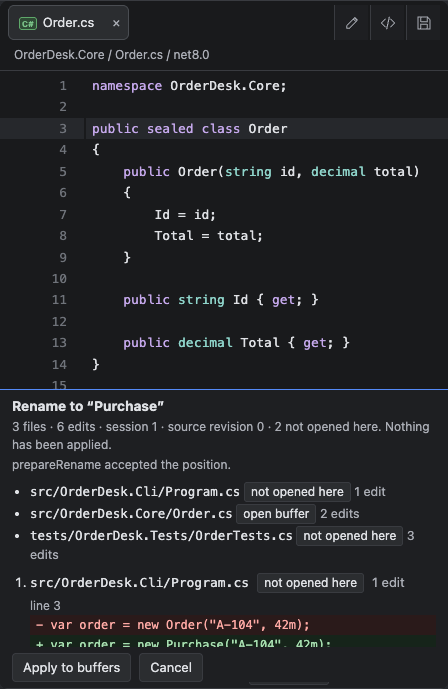
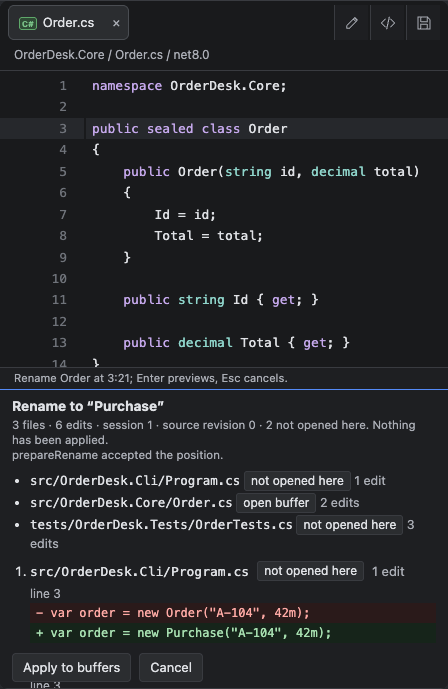
fix(editor): keep safety text and status visible, popup after editor in DOM (ticket 34)

diff --git a/src/WorkspaceView.tsx b/src/WorkspaceView.tsx
@@ -3942,6 +3942,92 @@ export function WorkspaceView({ snapshot, initialFile, recentSolutions, onOpenRe
                 </span>
               </div>
 
+              {active.conflict && (
+                <div className="notice error" data-testid="conflict-banner" role="alert">
+                  <strong>File changed on disk.</strong> {active.path} was modified outside
+                  OpenRidr. Your buffer is preserved; nothing was overwritten.
+                  <div className="actions">
+                    <button data-testid="conflict-reload" onClick={reloadFromDisk}>
+                      Reload from disk (discard my edits)
+                    </button>
+                    <button data-testid="conflict-overwrite" onClick={() => void overwriteDisk()}>
+                      Overwrite disk
+                    </button>
+                  </div>
+                  <details className="conflict-compare" data-testid="conflict-compare">
+                    <summary>Compare buffer and disk</summary>
+                    <div className="conflict-compare-grid">
+                      <section aria-label="Buffer version">
+                        <h3>Buffer · unsaved · revision {active.revision}</h3>
+                        <p className="muted">
+                          Based on <code data-testid="conflict-buffer-hash">{active.hash}</code>
+                        </p>
+                        <pre data-testid="conflict-compare-buffer">{active.content}</pre>
+                      </section>
+                      <section aria-label="Disk version">
+                        <h3>Disk · external change</h3>
+                        <p className="muted">
+                          Disk hash{" "}
+                          <code data-testid="conflict-disk-hash">{active.conflict.hash}</code>
+                        </p>
+                        <pre data-testid="conflict-compare-disk">{active.conflict.content}</pre>
+                      </section>
+                    </div>
+                    <p className="muted" data-testid="conflict-compare-diff">
+                      {activeConflictDiff
+                        ? `${countLabel(activeConflictDiff.removed, "line")} removed · ${countLabel(activeConflictDiff.added, "line")} added`
+                        : "Line diff skipped: one version has more than 1200 lines; compare hashes only."}
+                    </p>
+                  </details>
+                </div>
+              )}
+
+              <div className="editor-body" id="editor-content" role="tabpanel" aria-label={baseName(active.path)}>
+                <CodeEditor
+                  key={active.path}
+                  value={active.content}
+                  path={active.path}
+                  platform={snapshot.app.platform}
+                  revision={active.revision}
+                  editor={settings.editor}
+                  onChange={(value) => updateContent(active.path, value)}
+                  onSave={() => void save()}
+                  onDefinition={(location) =>
+                    void navigateTo(location.path, {
+                      line: location.line,
+                      character: location.character,
+                    })
+                  }
+                  onRename={(position) => requestRename(position)}
+                  onRenameSubmit={submitRenameInline}
+                  onRenameCancel={cancelRenameRequest}
+                  onCodeActions={(position) => void requestCodeActions(position)}
+                  onContextMenu={(position, at) => {
+                    noteCursor(position);
+                    setContextMenu({
+                      x: at.x,
+                      y: at.y,
+                      line: position.line,
+                      character: position.character,
+                    });
+                    if (trusted) void refreshGit();
+                  }}
+                  onGutterAction={handleGutterAction}
+                  gutterActions={gutterActions}
+                  changedLines={changedLines}
+                  renameRequest={renameRequest}
+                  definitionRequest={definitionRequest}
+                  onCursor={noteCursor}
+                  breakpoints={activeBreakpoints}
+                  currentLine={debugCurrentLine}
+                  inlayText={debugInlay}
+                  onToggleBreakpoint={(line) => void toggleBreakpoint(line)}
+                  target={
+                    editorTarget?.path === active.path ? editorTarget : null
+                  }
+                />
+              </div>
+
               {findUsages && (
                 <FindUsagesPanel
                   className="rename-preview find-usages editor-popup"
@@ -4172,92 +4258,6 @@ export function WorkspaceView({ snapshot, initialFile, recentSolutions, onOpenRe
                   </div>
                 </section>
               )}
-
-              {active.conflict && (
-                <div className="notice error" data-testid="conflict-banner" role="alert">
-                  <strong>File changed on disk.</strong> {active.path} was modified outside
-                  OpenRidr. Your buffer is preserved; nothing was overwritten.
-                  <div className="actions">
-                    <button data-testid="conflict-reload" onClick={reloadFromDisk}>
-                      Reload from disk (discard my edits)
-                    </button>
-                    <button data-testid="conflict-overwrite" onClick={() => void overwriteDisk()}>
-                      Overwrite disk
-                    </button>
-                  </div>
-                  <details className="conflict-compare" data-testid="conflict-compare">
-                    <summary>Compare buffer and disk</summary>
-                    <div className="conflict-compare-grid">
-                      <section aria-label="Buffer version">
-                        <h3>Buffer · unsaved · revision {active.revision}</h3>
-                        <p className="muted">
-                          Based on <code data-testid="conflict-buffer-hash">{active.hash}</code>
-                        </p>
-                        <pre data-testid="conflict-compare-buffer">{active.content}</pre>
-                      </section>
-                      <section aria-label="Disk version">
-                        <h3>Disk · external change</h3>
-                        <p className="muted">
-                          Disk hash{" "}
-                          <code data-testid="conflict-disk-hash">{active.conflict.hash}</code>
-                        </p>
-                        <pre data-testid="conflict-compare-disk">{active.conflict.content}</pre>
-                      </section>
-                    </div>
-                    <p className="muted" data-testid="conflict-compare-diff">
-                      {activeConflictDiff
-                        ? `${countLabel(activeConflictDiff.removed, "line")} removed · ${countLabel(activeConflictDiff.added, "line")} added`
-                        : "Line diff skipped: one version has more than 1200 lines; compare hashes only."}
-                    </p>
-                  </details>
-                </div>
-              )}
-
-              <div className="editor-body" id="editor-content" role="tabpanel" aria-label={baseName(active.path)}>
-                <CodeEditor
-                  key={active.path}
-                  value={active.content}
-                  path={active.path}
-                  platform={snapshot.app.platform}
-                  revision={active.revision}
-                  editor={settings.editor}
-                  onChange={(value) => updateContent(active.path, value)}
-                  onSave={() => void save()}
-                  onDefinition={(location) =>
-                    void navigateTo(location.path, {
-                      line: location.line,
-                      character: location.character,
-                    })
-                  }
-                  onRename={(position) => requestRename(position)}
-                  onRenameSubmit={submitRenameInline}
-                  onRenameCancel={cancelRenameRequest}
-                  onCodeActions={(position) => void requestCodeActions(position)}
-                  onContextMenu={(position, at) => {
-                    noteCursor(position);
-                    setContextMenu({
-                      x: at.x,
-                      y: at.y,
-                      line: position.line,
-                      character: position.character,
-                    });
-                    if (trusted) void refreshGit();
-                  }}
-                  onGutterAction={handleGutterAction}
-                  gutterActions={gutterActions}
-                  changedLines={changedLines}
-                  renameRequest={renameRequest}
-                  definitionRequest={definitionRequest}
-                  onCursor={noteCursor}
-                  breakpoints={activeBreakpoints}
-                  currentLine={debugCurrentLine}
-                  inlayText={debugInlay}
-                  onToggleBreakpoint={(line) => void toggleBreakpoint(line)}
-                  target={
-                    editorTarget?.path === active.path ? editorTarget : null
-                  }
-                />
-              </div>
             </>
           ) : (
             <div className="empty-editor">

diff --git a/tests/e2e/csharp-ls.spec.ts b/tests/e2e/csharp-ls.spec.ts
@@ -1234,6 +1234,9 @@ test("rename previews real cross-project edits, cancels inert and applies to buf
     await page.setViewportSize({ width: 1100, height: 700 });
     // Apply/Cancel stay inside the docked panel and the editor keeps usable height.
     await page.getByTestId("bottom-tab-problems").click();
+    await expect(page.getByTestId("rename-preview-summary")).toBeVisible();
+    await expect(page.getByTestId("rename-preview-summary")).toContainText("Nothing has been applied");
+    await expect(page.getByTestId("editor-lsp-status")).toBeVisible();
     const narrowPreview = (await page.getByTestId("rename-preview").boundingBox())!;
     const dock = (await page.getByTestId("bottom-tab-problems").boundingBox())!;
     expect(narrowPreview.y + narrowPreview.height).toBeLessThanOrEqual(dock.y + 0.5);
@@ -1517,6 +1520,17 @@ test("code actions are listed from csharp-ls and preview/apply without writing d
     // The first action and Close are visible inside the docked panel; the editor keeps height.
     // Ticket 32: with the Problems tool window open the bottom dock yields, so two actions fit.
     await page.getByTestId("bottom-tab-problems").click();
+    // Ticket 34: safety text and the role=status line stay visible; the popup follows the editor in DOM/Tab order.
+    await expect(panel.getByTestId("code-actions-summary")).toBeVisible();
+    await expect(panel.getByTestId("code-actions-summary")).toContainText("Nothing has been applied");
+    await expect(page.getByTestId("editor-lsp-status")).toBeVisible();
+    expect(
+      await page.evaluate(() => {
+        const body = document.querySelector(".editor-body")!;
+        const popup = document.querySelector(".editor-popup")!;
+        return Boolean(body.compareDocumentPosition(popup) & Node.DOCUMENT_POSITION_FOLLOWING);
+      }),
+    ).toBe(true);
     const narrowPanel = (await panel.boundingBox())!;
     for (const locator of [
       panel.getByTestId("code-actions-list").getByRole("button").nth(0),

diff --git a/src/styles.css b/src/styles.css
@@ -1184,9 +1184,8 @@ kbd { font: 11px var(--sans); color: var(--muted); }
   font-size: 0.95rem;
 }
 
-/* M7: previews dock below the editor (flex order) instead of floating over the text. */
+/* M7: previews dock below the editor. They follow .editor-body in the DOM, so Tab order matches the visual order. */
 .editor-popup {
-  order: 2;
   flex: 0 0 auto;
   box-sizing: border-box;
   min-height: 100px;
@@ -1196,17 +1195,17 @@ kbd { font: 11px var(--sans); color: var(--muted); }
   border-top: 1px solid var(--accent);
 }
 
+/* Compact, never hidden: safety/truncation text stays; only spacing and size give way. */
 .editor-popup h2 { margin: 0 0 2px; font-size: 0.85rem; }
-.editor-popup p { margin: 2px 0; font-size: 0.75rem; }
+.editor-popup p { margin: 1px 0; font-size: 0.72rem; line-height: 1.25; }
 
-/* Short windows: the summary repeats the status notice above, so the list and Apply/Cancel get the room. */
-@media (max-height: 760px) {
-  .editor-popup > p.muted { display: none; }
-}
-
-/* The keyboard-hint line is redundant while a preview is docked; its height goes to the editor. */
-.editor-popup ~ .editor-body .editor-lsp-status {
-  display: none;
+/* While a preview is docked, the role=status line shrinks to one line (full text in its title). */
+.editor-pane:has(.editor-popup) .editor-lsp-status {
+  padding: 2px 14px;
+  font-size: 0.7rem;
+  white-space: nowrap;
+  overflow: hidden;
+  text-overflow: ellipsis;
 }
 
 /* Apply and Cancel stay inside the preview box at every size; -10px pushed them past its bottom edge. */

diff --git a/tests/e2e/editor-overflow.spec.ts b/tests/e2e/editor-overflow.spec.ts
@@ -44,11 +44,11 @@ test("editor action popups stay inside the editor and keep preview actions reach
   await page.setViewportSize({ width: 1100, height: 700 });
   await page.setContent(`
     <section class="editor-pane" aria-label="Editor" style="width:700px;height:500px">
+      <div class="editor-body" style="min-height:100px">Editor</div>
       <div class="rename-preview editor-popup">
         <h2>Rename preview</h2><div style="height:700px">Preview details</div>
         <div class="actions"><button>Apply</button><button>Cancel</button></div>
       </div>
-      <div class="editor-body" style="min-height:100px">Editor</div>
     </section>`);
   await page.addStyleTag({ content: fs.readFileSync(path.resolve("src/styles.css"), "utf8") });
   const pane = page.getByRole("region", { name: "Editor" });

diff --git a/src/CodeEditor.tsx b/src/CodeEditor.tsx
@@ -957,6 +957,7 @@ export function CodeEditor({
         data-testid="editor-lsp-status"
         data-state={status.state}
         role="status"
+        title={status.text}
       >
         {status.text}
       </div>

diff --git a/crates/host/src/lib.rs b/crates/host/src/lib.rs
@@ -6486,6 +6486,8 @@ fn workspace_symbol_items(list: &lsp::WorkspaceSymbolList, root: &Path) -> (Vec<
 
 #[cfg(test)]
 mod tests {
+    use super::*;
+
     #[test]
     fn symbols_outside_the_workspace_are_filtered_not_truncated() {
         let temp = tempfile::tempdir().unwrap();
@@ -6514,7 +6516,6 @@ mod tests {
         assert!(workspace_symbol_items(&capped, &root).1, "real truncation is kept");
     }
 
-    use super::*;
 
     fn target(path: &Path) -> lsp::DefinitionTarget {
         lsp::DefinitionTarget {

diff --git a/docs/UI-AUDIT.md b/docs/UI-AUDIT.md
@@ -45,7 +45,7 @@ Os cinco mais graves, na ordem em que atrapalham o trabalho diário:
 | M4 | Settings > Keymap | A lista não é uma tabela: cada ação vira uma pilha de título + grupo + dois botões grandes (`Change`/`Reset`), com rótulos duplicados (`Run Run`, `Build Build`, `Debug Debug`), um `Reset` global sem rótulo no topo e sem cabeçalhos de coluna. | F2 #16/#17 (remapear e avisar conflito) e F8 #65; decisão F2 (registro único, remap e reset). | [44-settings-keymap](evidence/ui-audit/44-settings-keymap.png), [45-keymap-conflict](evidence/ui-audit/45-keymap-conflict.png), [89-settings-1100](evidence/ui-audit/89-settings-1100.png) |
 | M5 | Terminal | O log mostra prompts/linhas duplicados (`ppwd`, `ddotnet --version`) porque o buffer é texto cru com `\r`/redraw; o cabeçalho (Shell/Cwd/State/Process) rola para fora com output longo; a área útil fica em ~120 px. `dotnet --version` falha com o SDK pinado 8.0.408 (o shell resolve o SDK do sistema), embora a status bar diga `Project SDK 8.0.408`. | Decisão ticket 15 (PTY, log preservado, ANSI removido), wireframe 06 e AC-25/26; SPEC.md:98 (log rolável sem esconder ações). | [84-terminal](evidence/ui-audit/84-terminal.png), [85-terminal-close](evidence/ui-audit/85-terminal-close.png), [87-layout-1440](evidence/ui-audit/87-layout-1440.png) |
 | M6 | Menu de contexto do editor | O menu abre longe do ponteiro (canto inferior direito do editor, não na linha clicada); mistura notação `Option+Enter` com `Shift+F12`/`F12`; itens desabilitados (`Run Test`, `Debug Test`, `Git: Show Diff`) continuam brancos. | F7 #60 (menu no lugar esperado, itens indisponíveis com motivo) e F2 (atalhos por perfil/SO). | [71-editor-context-menu](evidence/ui-audit/71-editor-context-menu.png) |
-| M7 | Rename | O campo de rename é um popup flutuante com `Preview rename`/`Cancel`, não um campo sobre a palavra; o range não é destacado. O rodapé `Rename Order at 3:17; Enter previews, Esc cancels.` permanece depois de cancelar e reaparece em Debug/Find Usages. | F7 #61 (campo sobre o identificador no cursor, range de palavra, Enter aplica, Esc cancela) e decisão F7. | [73-rename-inline](evidence/ui-audit/73-rename-inline.png), [81-debug-paused](evidence/ui-audit/81-debug-paused.png), [75-find-usages](evidence/ui-audit/75-find-usages.png) |
+| M7 | Rename | O campo de rename é um popup flutuante com `Preview rename`/`Cancel`, não um campo sobre a palavra; o range não é destacado. O rodapé `Rename Order at 3:17; Enter previews, Esc cancels.` permanece depois de cancelar e reaparece em Debug/Find Usages. | F7 #61 (campo sobre o identificador no cursor, range de palavra, Enter aplica, Esc cancela) e decisão F7. | [73-rename-inline](evidence/ui-audit/73-rename-inline.png), [81-debug-paused](evidence/ui-audit/81-debug-paused.png), [75-find-usages](evidence/ui-audit/75-find-usages.png) **Status (2026-10-31):** M7a — preview/overlap/docking — **resolvido** (tickets 31, 32, 34, `decisions.md`); M7b — campo inline sobre o identificador com range destacado e Enter aplicando — **aberto**. |
 | M8 | Commit/Git log | A lista de arquivos trunca o caminho no prefixo (`src/OrderDesk.Cli/Progr...`) e o log espreme hash/mensagem/autor/data/parents/hint em ~540 px de uma área de 1250 px; o feedback `Committed 11f3ea4 Audit commit` aparece duas vezes (banner e abaixo do botão). | F6 #50/#51/#52 e decisão F6 (log com mensagem/autor/data; commit por seleção). | [50-git-commit](evidence/ui-audit/50-git-commit.png), [53-git-log](evidence/ui-audit/53-git-log.png) |
 | M9 | NuGet | A tabela de pacotes começa abaixo da dobra (só o cabeçalho aparece no painel padrão); `Sources consulted: unknown — dotnet nuget list source failed` aparece em vermelho mesmo quando o `--outdated` funcionou. | F9 #70/#71 e decisão F9 (lista por TFM, estados honestos). | [59-nuget-packages](evidence/ui-audit/59-nuget-packages.png) |
 | M10 | Project details | `Path` e `TargetPath` quebram no meio do nome do arquivo (`cspro` + `j`), o comando MSBuild é cortado na borda e o botão `Close project details` fica solto acima do título do painel. | Decisão ticket 03 (coluna própria de detalhes) e SPEC.md:98 (hierarquia/legibilidade). | [19-project-details](evidence/ui-audit/19-project-details.png) |

diff --git a/docs/implementation-notes.md b/docs/implementation-notes.md
@@ -535,7 +535,7 @@ Welcome — recentes verificados (2026-10-29): spec `welcome lists recent soluti
 
 - `src/styles.css`: `.editor-popup` virou item flex (`order:2`) do `.editor-pane`; `WorkspaceView` perdeu `editorPopupStyle`, `CodeEditor` perdeu `data-anchor-*`. Spec D-12 mede `.cm-scroller` (não `.cm-content`, cuja caixa inclui o texto rolado) e exige ausência de sobreposição.
 - Observado: uma primeira rodada do teste "code actions are listed" falhou em `restore-reload` desabilitado (corrida do restore automático, não do layout); repetido isolado e com o grupo, passou. Registrado como flake não investigado.
-- Follow-up de revisão (ticket 31): painel com `min-height:100px`/`max-height:40%`, resumo e dica LSP ocultos em ≤760 px de altura; asserts de 1ª ação/Apply/Cancel dentro do painel a 1100×700; helper `editorPointOutsidePopup`; `editor-overflow.spec.ts` sem offsets inline.
-- Capturas passaram a recortar `.editor-pane` (privacidade: a versão full-page de `09-rename-preview.png` mostrava `/Users/helder/.dotnet/...`; ela permanece no histórico local não publicado). Alteradas pelos specs: `09-rename-{applied,preview,preview-files,prompt,stale}.png`, `10-code-actions-{applied,diagnostic,empty,list,preview,stale}.png`, `m7-*.png`. Logs `10-csharp-ls-actions.json` e `10-lsp.log` regenerados pelos specs e revertidos com `git checkout` (sem diff).
+- Follow-up de revisão (ticket 31): painel com `min-height:100px`/`max-height:40%` (hoje 50%, ticket 32; o ocultamento de resumo/dica LSP foi desfeito no ticket 34); asserts de 1ª ação/Apply/Cancel dentro do painel a 1100×700; helper `editorPointOutsidePopup`; `editor-overflow.spec.ts` sem offsets inline.
+- Capturas passaram a recortar `.editor-pane` (privacidade: a versão full-page de `09-rename-preview.png` mostrava um caminho `~/.dotnet/...` com o nome de usuário; ela permanece no histórico local não publicado). Alteradas pelos specs: `09-rename-{applied,preview,preview-files,prompt,stale}.png`, `10-code-actions-{applied,diagnostic,empty,list,preview,stale}.png`, `m7-*.png`. Logs `10-csharp-ls-actions.json` e `10-lsp.log` regenerados pelos specs e revertidos com `git checkout` (sem diff).
 - Flake "code actions are listed" (`restore-reload` desabilitado): 1 falha em ~10 execuções, 0 nas posteriores com a mesma UI; a espera é do restore automático, independente do layout. Classificação: não causado por M7 (a falha ocorre antes de qualquer interação com o painel); não provado pré-existente por rodada em baseline.
-- `code.spec.ts:81` (trusted but unanalyzed…) falha em `mode-trusted` oculto após grant: efeito do D-13 (popover fecha), não de M7; teste não atualizado — fora do escopo.
+- `code.spec.ts:81` falhava em `mode-trusted` oculto após grant (efeito do D-13, não de M7); o teste foi atualizado depois (`7063510`) e a nota anterior ficou obsoleta.

diff --git a/docs/tickets-mvp/31-m7-preview-docked.md b/docs/tickets-mvp/31-m7-preview-docked.md
@@ -2,11 +2,11 @@
 
 Escopo: **M7a (overlap/docking) resolvido. M7b (rename inline sobre o identificador com range) aberto** — ver `decisions.md` “M7: previews docados”. M7 não está totalmente fechado.
 
-- [x] Rename preview, code actions e Find Usages deixam de flutuar sobre o editor; docam abaixo dele (CSS `.editor-popup`: `order:2`, `min-height:100px`, `max-height:min(40%,300px)`).
-- [x] Janelas baixas (≤760 px): resumo `p.muted` do painel e linha de dicas do LSP ocultos para caber a 1ª ação e Apply/Cancel.
+- [x] Rename preview, code actions e Find Usages deixam de flutuar sobre o editor; docam abaixo dele (CSS `.editor-popup`: `min-height:100px`; teto 40% **superseded** → 50% no ticket 32; `order:2` removido no ticket 34).
+- [x] ~~Janelas baixas: ocultar resumo e dicas do LSP~~ — **superseded no ticket 34** (nada informativo é ocultado).
 - [x] Remover o cálculo de posição (`editorPopupStyle`, `data-anchor-*`).
 - [x] D-12: click no texto e Esc continuam cancelando; testid/foco/Apply guards intactos. `csharp-ls.spec.ts` afirma não-sobreposição (tolerância 0,5 px, sub-pixel), editor ≥100 px a 1100×700, 1ª ação + Close (code actions) e Apply/Cancel (rename) dentro do painel a 1100×700. `editor-overflow.spec.ts` ajustado ao layout docado. Helper renomeado `editorPointOutsidePopup`.
-- [x] Capturas agora recortam `.editor-pane` (sem painel de ferramentas, sem `/Users/helder`): `09-rename-{prompt,preview,preview-files,stale,applied}.png`, `10-code-actions-{list,preview,applied,empty,stale,diagnostic}.png`, `m7-rename-preview-1100x700.png`, `m7-code-actions-1100x700.png`. As versões antigas (full-page, uma com `/Users/helder/.dotnet/...`) ficam no histórico git local não publicado (`ee30055` e anteriores); sem rewrite nem push.
+- [x] Capturas agora recortam `.editor-pane` (sem painel de ferramentas, sem caminho do usuário): `09-rename-{prompt,preview,preview-files,stale,applied}.png`, `10-code-actions-{list,preview,applied,empty,stale,diagnostic}.png`, `m7-rename-preview-1100x700.png`, `m7-code-actions-1100x700.png`. As versões antigas (full-page, uma com `~/.dotnet/...` (caminho do usuário)) ficam no histórico git local não publicado (`ee30055` e anteriores); sem rewrite nem push.
 - [x] `bun run check`, `bun run build`, `csharp-ls.spec.ts -g "code action|rename|D-12"` 12/12, `editor-overflow`/`find-usages` verdes.
 
 Não verificado: Tauri nativo, Windows, Intel; suíte completa. A 1100×700 com ferramentas+painel inferior abertos o editor fica com ~4 linhas e o Close fixo cobre parte da 2ª ação (rolagem do painel).

diff --git a/docs/tickets-mvp/34-m7a-review-fixes.md b/docs/tickets-mvp/34-m7a-review-fixes.md
@@ -1,0 +1,10 @@
+# 34 — M7a: correções da revisão final
+
+- [x] (A) Resumo/aviso dos popups docados não é mais ocultado em janelas baixas; só espaçamento/tamanho (`.editor-popup p`).
+- [x] (B) `role="status"` do editor (`editor-lsp-status`) fica visível com preview aberto: uma linha, reticências, texto completo em `title`. Comentário CSS corrigido.
+- [x] (C) Popups docados movidos para depois de `.editor-body` no DOM (`WorkspaceView.tsx`); `order:2` e o combinador `~` removidos → Tab segue a ordem visual.
+- [x] E2E: summary "Nothing has been applied" visível, status visível, popup depois do editor, 1ª ação + Close/Apply/Cancel dentro do painel, editor ≥100 px (1100×700, Problems aberto). Vermelho sem a correção: `docs/evidence/logs/m7-ticket34-red.md`.
+- [x] Nit Rust: `use super::*;` no topo de `mod tests` (`lib.rs`).
+- [x] Docs: `decisions.md` (tetos 40%→50% como histórico, mudança também a 1440×900, ticket 34), tickets 31 (supersessões, sem caminho pessoal), `implementation-notes.md` (nota do `code.spec.ts:81` atualizada), `UI-AUDIT.md` (M7a resolvido / M7b aberto).
+
+M7b segue aberto. Não verificado: reprova no `.app` (native-proof-4), Windows, Intel.

diff --git a/docs/evidence/logs/m7-ticket34-red.md b/docs/evidence/logs/m7-ticket34-red.md
@@ -1,0 +1,5 @@
+# M7a — provas vermelhas (tickets 32 e 34)
+
+- Ticket 32 (e2e a 1100×700 com Problems ativo, antes do CSS que faz a dock ceder): `expect(preview.bottom).toBeLessThanOrEqual(dock.top)` → Expected `<= 452`, Received `469.55` (preview 17 px abaixo da dock).
+- Ticket 34 (implementação do ticket 32 sem as correções A/B/C): `expect(getByTestId("rename-preview-summary")).toBeVisible()` e `expect(getByTestId("code-actions-summary")).toBeVisible()` → Expected visible, Received hidden (resumo oculto por `@media (max-height:760px)`); os testes de status e de ordem DOM do popup após `.editor-body` ficam depois dessas asserções.
+- Verde após a correção: `csharp-ls.spec.ts -g "code action|rename|D-12"`, `editor-overflow`, `find-usages` (exit 0; ver ticket 34).
